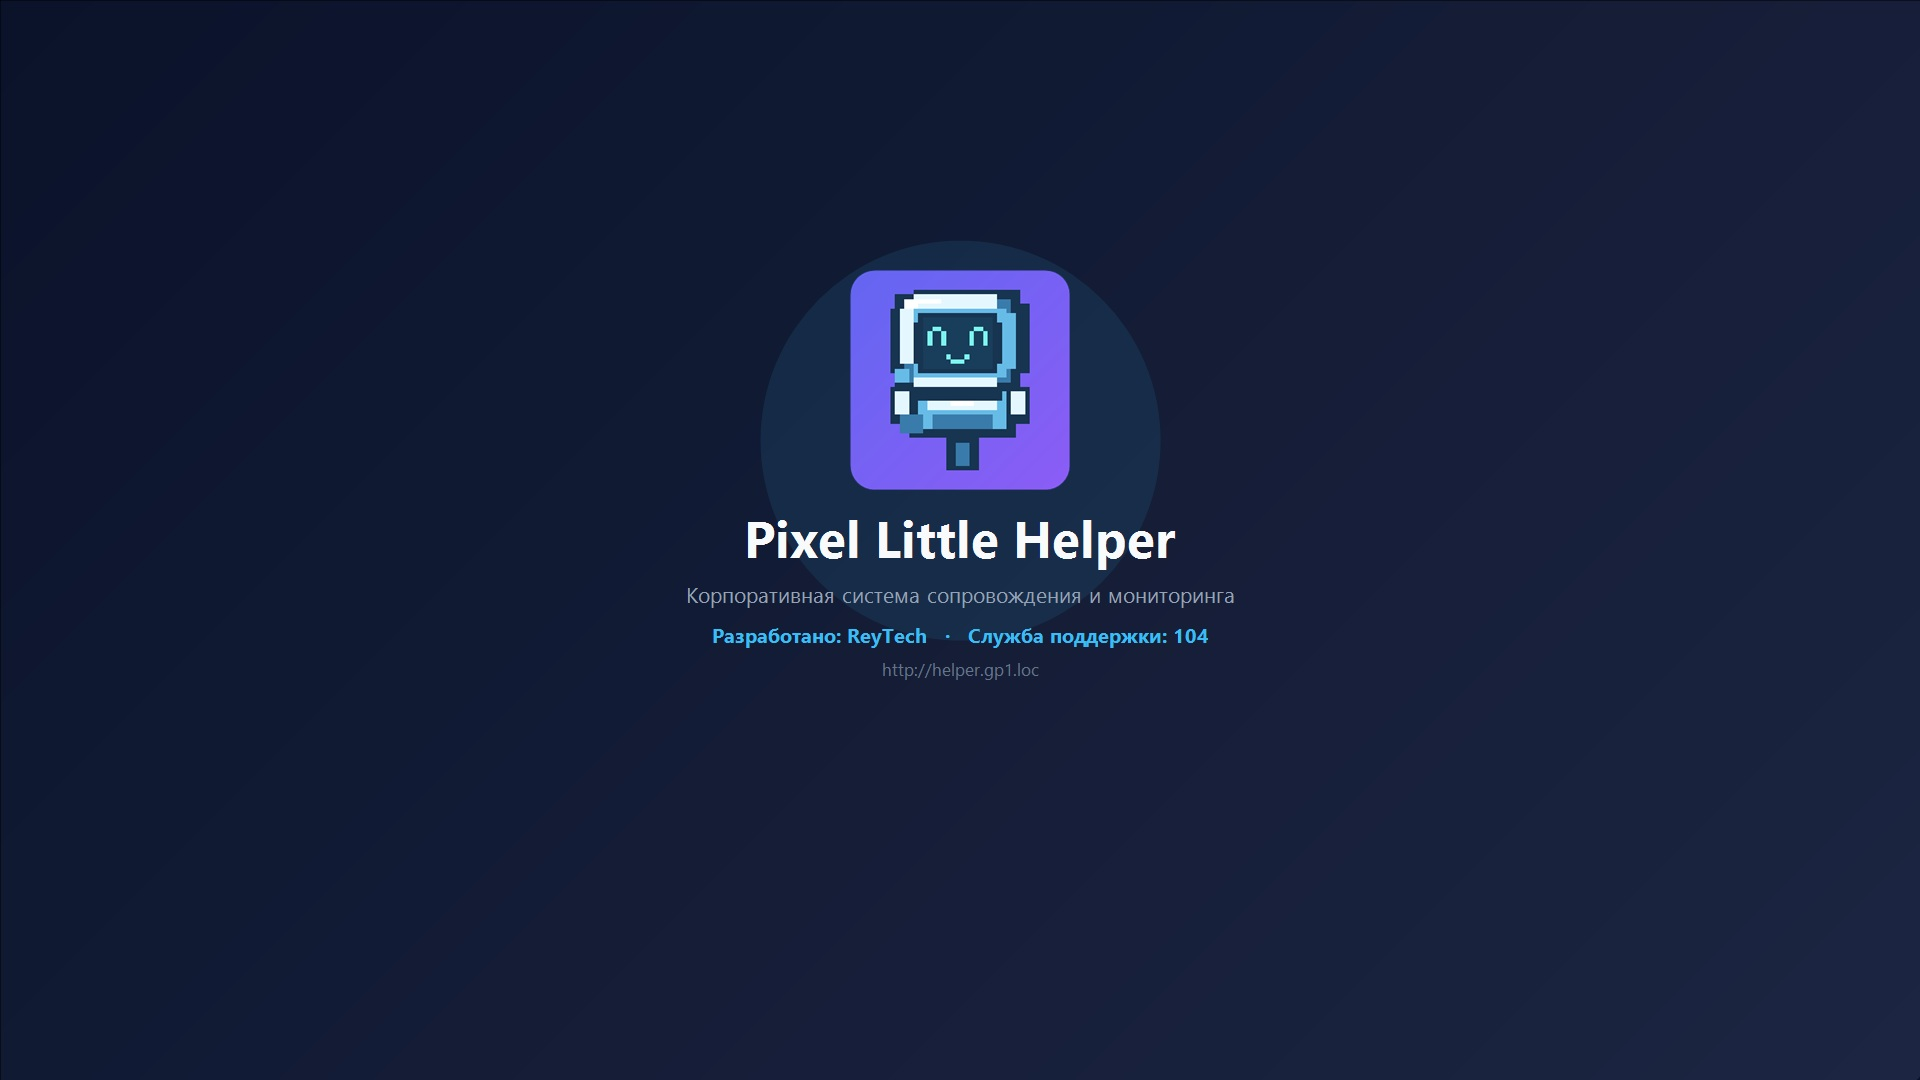
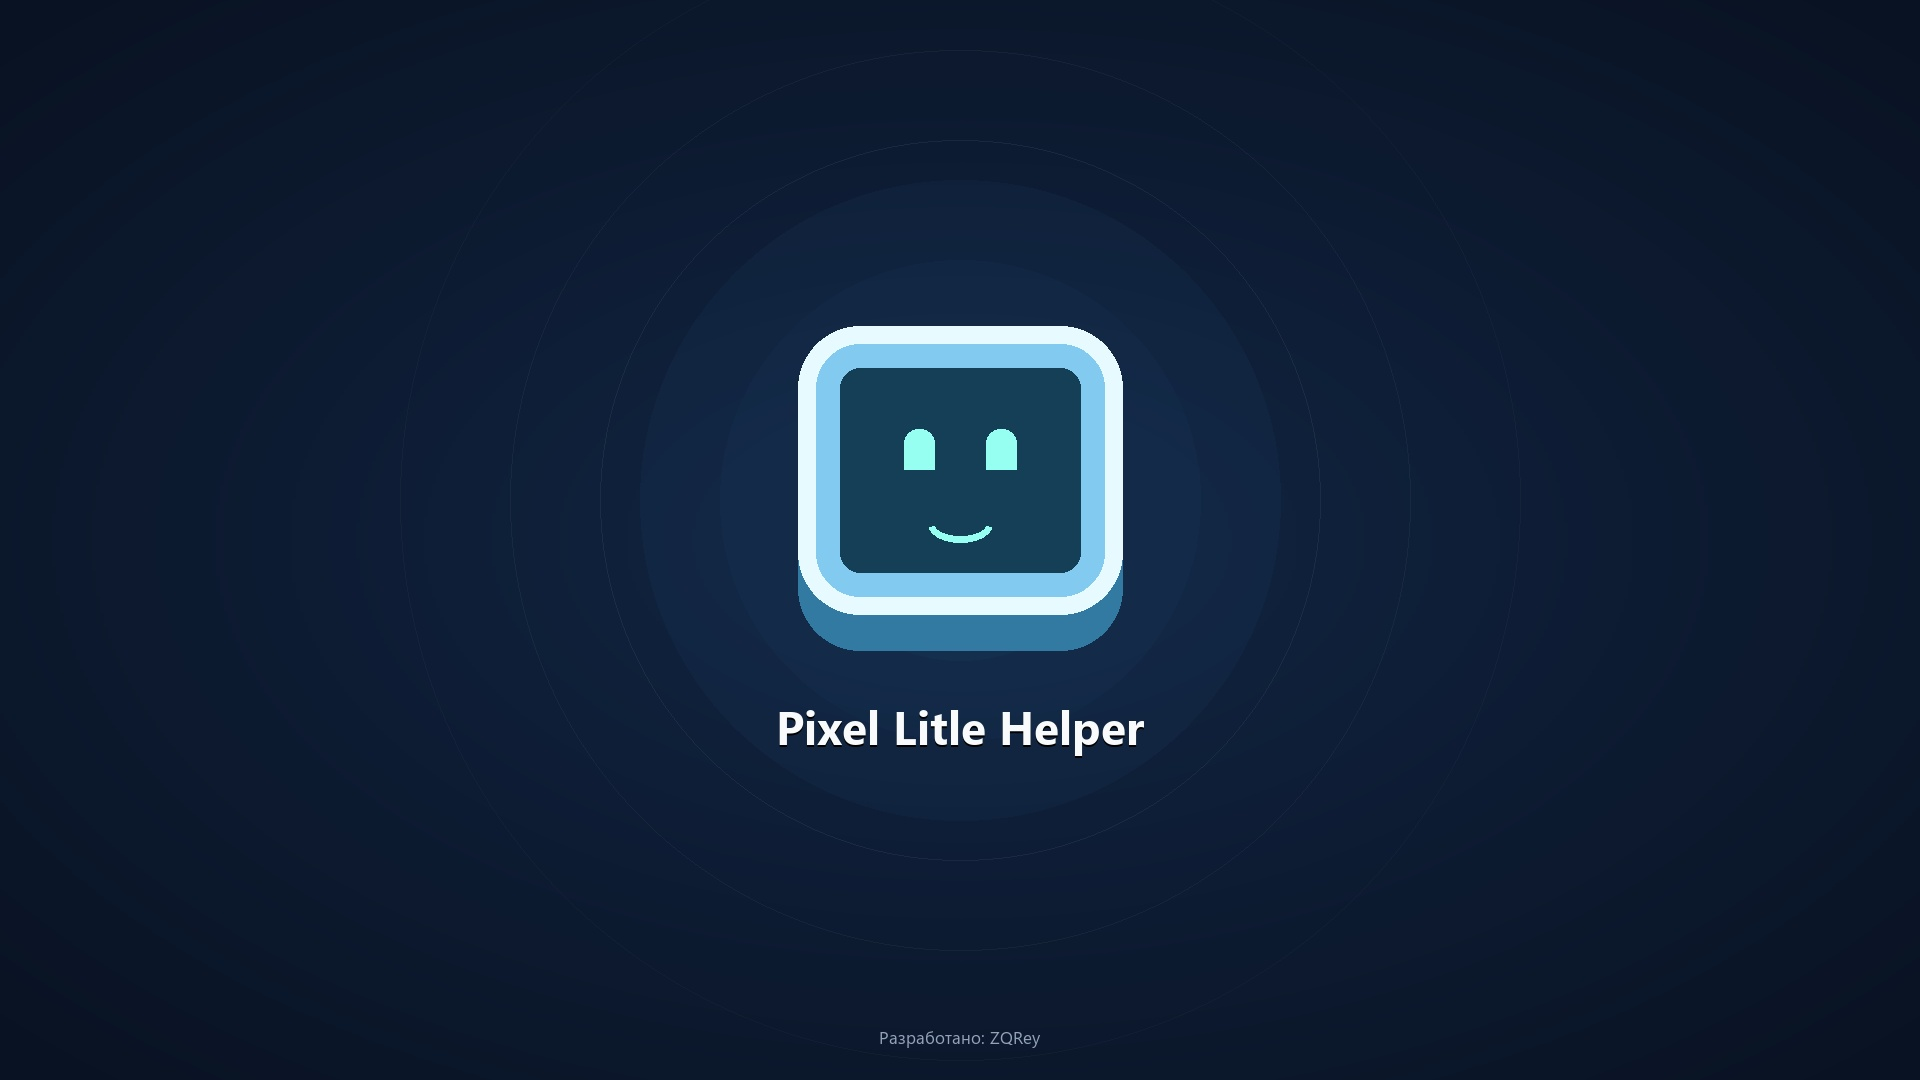
fix(branding): lockscreen robot head centered with 'Pixel Litle Helper', bottom developer ZQRey, OEM hours 'Пн-Пт 08:00 – 17:00' and remove phone

Changed region(s): [[0.375, 0.2444, 0.625, 0.7028], [0.8125, 0.7944, 1.0, 1.0], [0.4688, 0.9472, 0.5312, 0.9778]]

diff --git a/LitleHelperClient/BrandingManager.cs b/LitleHelperClient/BrandingManager.cs
@@ -13,8 +13,7 @@ public static class BrandingManager
 {
     public const string DefaultManufacturer = "ReyTech";
     public const string DefaultModel = "PixelHelper";
-    public const string DefaultSupportHours = "Пн-Пт 08:30 – 17:30";
-    public const string DefaultSupportPhone = "104";
+    public const string DefaultSupportHours = "Пн-Пт 08:00 – 17:00";
     public const string DefaultSupportUrl = "https://helper.gp1.loc";
 
     private const string OemKeyPath = @"SOFTWARE\Microsoft\Windows\CurrentVersion\OEMInformation";
@@ -66,7 +65,9 @@ public static class BrandingManager
                     oemKey.SetValue("Manufacturer", DefaultManufacturer, RegistryValueKind.String);
                     oemKey.SetValue("Model", DefaultModel, RegistryValueKind.String);
                     oemKey.SetValue("SupportHours", DefaultSupportHours, RegistryValueKind.String);
-                    oemKey.SetValue("SupportPhone", DefaultSupportPhone, RegistryValueKind.String);
+                    oemKey.SetValue("Часы", DefaultSupportHours, RegistryValueKind.String);
+                    try { oemKey.DeleteValue("SupportPhone", false); } catch { }
+                    try { oemKey.DeleteValue("Телефон", false); } catch { }
                     oemKey.SetValue("SupportURL", url, RegistryValueKind.String);
 
                     if (File.Exists(logoPath))

diff --git a/LitleHelperClient/tests/Program.cs b/LitleHelperClient/tests/Program.cs
@@ -1522,7 +1522,7 @@ try
     // Verify BrandingManager
     Check(BrandingManager.DefaultManufacturer == "ReyTech", "BrandingManager DefaultManufacturer is ReyTech");
     Check(BrandingManager.DefaultModel == "PixelHelper", "BrandingManager DefaultModel is PixelHelper");
-    Check(BrandingManager.DefaultSupportPhone == "104", "BrandingManager DefaultSupportPhone is 104");
+    Check(BrandingManager.DefaultSupportHours == "Пн-Пт 08:00 – 17:00", "BrandingManager DefaultSupportHours is Пн-Пт 08:00 – 17:00");
     Check(File.Exists(BrandingManager.GetLogoPath()), "BrandingManager logo_oem.bmp exists");
     Check(File.Exists(BrandingManager.GetLockScreenPath()), "BrandingManager branding_lockscreen.jpg exists");
     bool brandingResult = BrandingManager.ApplyBranding("https://test.helper.gp1.loc", msg => { });

diff --git a/TODO.md b/TODO.md
@@ -4193,3 +4193,17 @@ MSI: `LitleHelperClient/artifacts/release-1.2.69/PixelHelper.msi`
 - [x] Успешно пройден полный набор модульных тестов (`PixelHelper.Tests.csproj`).
 - [x] Собран MSI-установщик: `LitleHelperClient\artifacts\release-1.2.83\PixelHelper.msi`.
 - [x] Пакет **не отправлен** в канал автообновления (согласно указанию).
+
+### 38.5. [x] Обновление композиции экрана блокировки и параметров OEM (`branding_lockscreen.jpg`, `BrandingManager.cs`)
+- [x] **Изображение экрана блокировки:**
+  - По центру экрана размещена голова робота (точное соответствие стилистике веб-панели `.pixel-face` с неоновыми глазами, улыбкой и 3D-рамкой).
+  - Прямо под головой робота нанесена надпись: `«Pixel Litle Helper»` (с намеренным написанием `Litle`).
+  - В самом низу экрана по центру размещено указание разработчика: `«Разработано: ZQRey»`.
+  - Все старые громоздкие надписи полностью удалены.
+- [x] **Информация о системе (OEMInformation):**
+  - Пункт «Телефон» (`SupportPhone`) полностью удален из реестра HKLM и инсталлятора MSI.
+  - Пункт переименован в «Часы» с установкой значений `SupportHours` и `Часы`: `«Пн-Пт 08:00 – 17:00»`.
+- [x] **Пересборка пакета:**
+  - Обновлен файл `Assets\branding_lockscreen.jpg`.
+  - Пройдены тесты `PixelHelper.Tests.csproj`.
+  - Пересобран пакет `LitleHelperClient\artifacts\release-1.2.83\PixelHelper.msi`.
